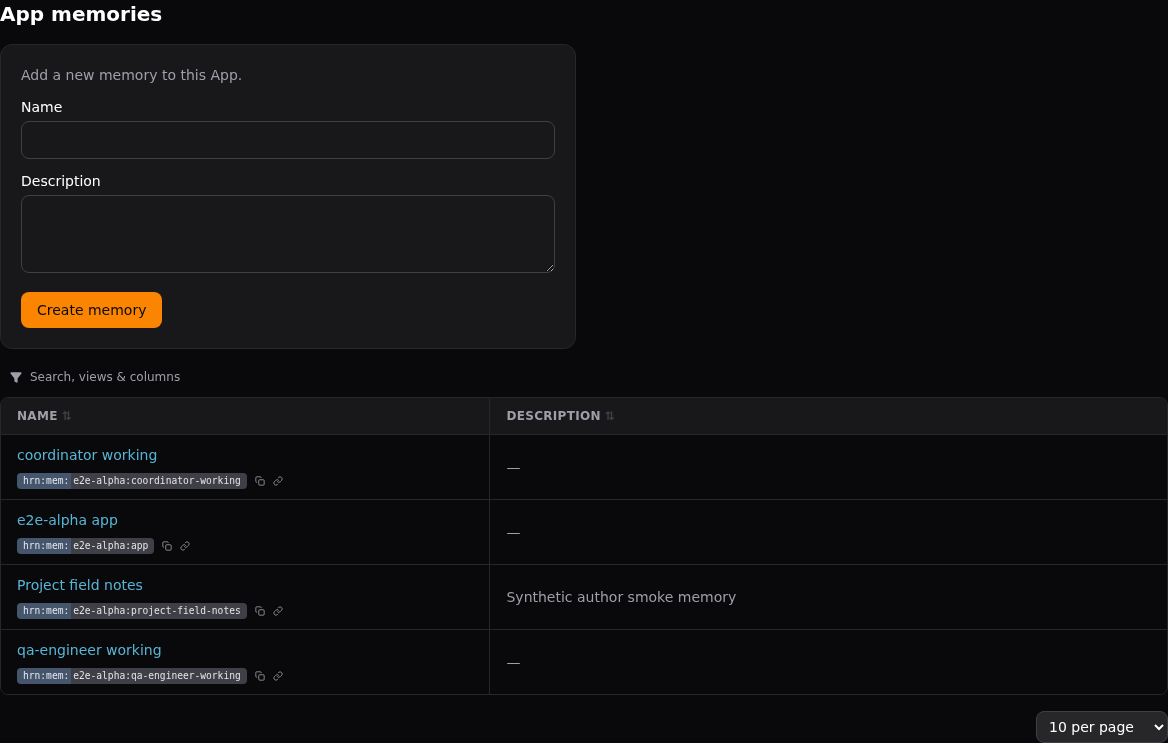
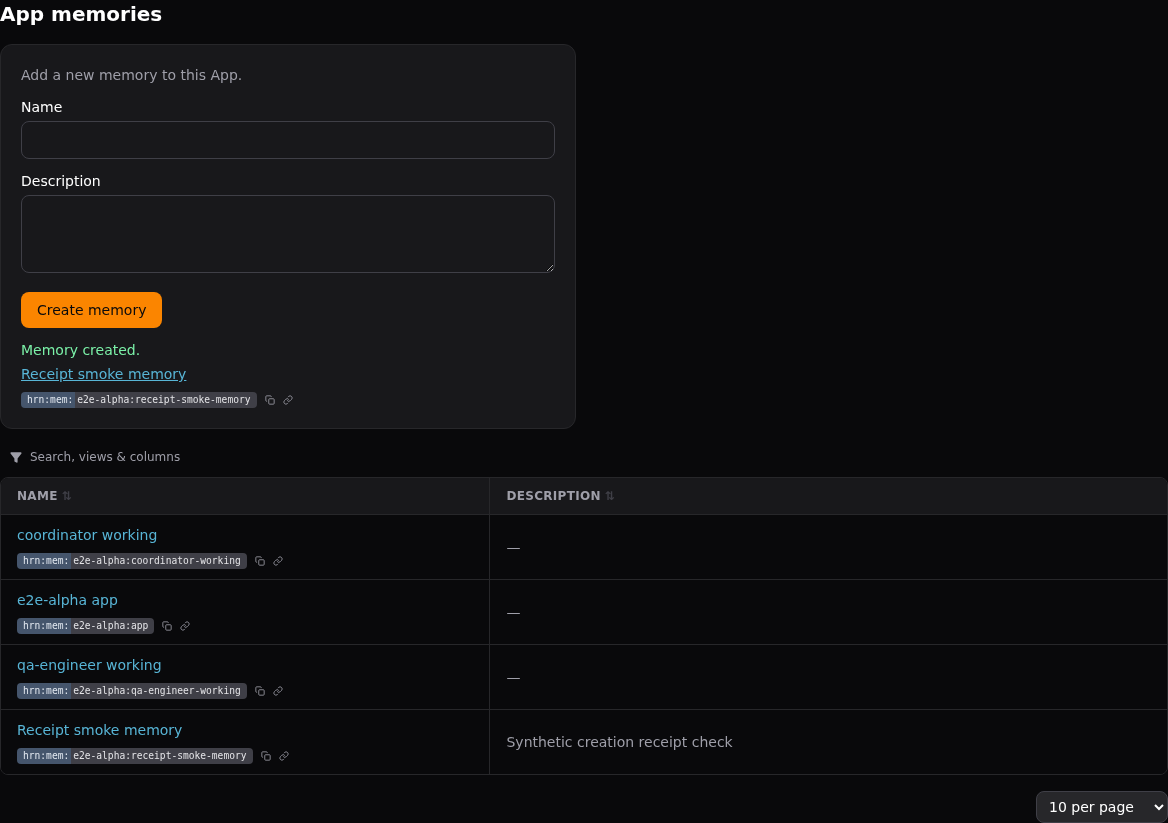
fix: identify the created App memory outside table pagination
UX P2 on #1389: retain the server-returned name, link and copyable URN in the success result so a filtered or later-page row is still reachable. Refs #487.

Worker: Gizelle (portal-engineer) <hrn:worker:hadronmemory.com:hadron-dev-team:gizelle>

diff --git a/src/routes/app/apps/[appId]/AppMemories.svelte b/src/routes/app/apps/[appId]/AppMemories.svelte
@@ -9,14 +9,17 @@
   import type { PortalColumnDef } from '$lib/table/features';
   import { t } from '$lib/i18n/t';
   import { submittedForm, failedSubmission } from '$lib/forms/submitted-form';
-  import type { AppMemoryRow } from './app-memories';
+  import type { AppMemoryMessage, AppMemoryRow } from './app-memories';
   import { createAppMemorySchema } from './schema';
   type Fields = Infer<typeof createAppMemorySchema, 'zod4'>;
   let { memories, canCreate, initial, result }: {
     memories: AppMemoryRow[] | null; canCreate: boolean;
-    initial: SuperValidated<Fields, App.Superforms.Message>; result: unknown;
+    initial: SuperValidated<Fields, AppMemoryMessage>; result: unknown;
   } = $props();
-  const { form, errors, message, submitting, enhance } = superForm(untrack(() => failedSubmission<Fields>(result, 'createAppMemory') ?? { ...initial, message: submittedForm<Fields>(result, 'createAppMemory')?.message }), {
+  const { form, errors, message, submitting, enhance } = superForm(untrack(() => {
+    const submitted = submittedForm<Fields>(result, 'createAppMemory') as SuperValidated<Fields, AppMemoryMessage> | null;
+    return (failedSubmission<Fields>(result, 'createAppMemory') as SuperValidated<Fields, AppMemoryMessage> | null) ?? { ...initial, message: submitted?.message };
+  }), {
     validators: zod4Client(createAppMemorySchema), invalidateAll: 'force', resetForm: true,
   });
   let search = $state('');
@@ -52,7 +55,15 @@
       </div>
       <button type="submit" disabled={$submitting} class="rounded-lg bg-amber-500 px-4 py-2 text-sm font-medium text-zinc-950 hover:bg-amber-600 disabled:opacity-50">{$submitting ? t('app.memory.creating', 'Creating...') : t('app.memory.create', 'Create memory')}</button>
       </fieldset>
-      {#if $message}<p role={$message.type === 'error' ? 'alert' : 'status'} class="text-sm {$message.type === 'error' ? 'text-red-600 dark:text-red-400' : 'text-green-700 dark:text-green-300'}">{$message.text}</p>{/if}
+      {#if $message}
+        <div role={$message.type === 'error' ? 'alert' : 'status'} class="text-sm {$message.type === 'error' ? 'text-red-600 dark:text-red-400' : 'text-green-700 dark:text-green-300'}">
+          <p>{$message.text}</p>
+          {#if $message.type === 'success' && $message.created}
+            <a href="/app/memories/{encodeURIComponent($message.created.id)}" class="mt-1 inline-block font-medium text-indigo-600 hover:underline dark:text-indigo-300">{$message.created.name}</a>
+            <div class="mt-1"><Urn value={$message.created.urn} type="memory" size={10} /></div>
+          {/if}
+        </div>
+      {/if}
     </form>
   {/if}
   {#if memories === null}

diff --git a/src/routes/app/apps/[appId]/app-memories.ts b/src/routes/app/apps/[appId]/app-memories.ts
@@ -1,3 +1,4 @@
+import type { Infer } from 'sveltekit-superforms';
 import { fail } from '@sveltejs/kit';
 import { message, superValidate } from 'sveltekit-superforms/server';
 import { zod4 } from 'sveltekit-superforms/adapters';
@@ -7,6 +8,9 @@ import { OPTIONAL_LIST_TIMEOUT_MS, withTimeout } from '$lib/server/with-timeout'
 import { fetchAllItems } from '$lib/server/paginate';
 import { t } from '$lib/i18n/t';
 import { createAppMemorySchema } from './schema';
+
+export interface CreatedAppMemory { id: string; urn: string; name: string }
+export type AppMemoryMessage = App.Superforms.Message & { created?: CreatedAppMemory };
 
 export interface AppMemoryRow { id: string; urn: string; name: string; description: string | null; appId: string | null }
 export const CREATE_APP_MEMORY_MUTATION = /* GraphQL */ `
@@ -38,11 +42,11 @@ export function canCreateAppMemory(org: { members?: { role: string; user: { id: 
 }
 
 export async function createMemory({ request, params, locals }: { request: Request; params: { appId: string }; locals: { token?: string | null } }) {
-  const form = await superValidate(await request.formData(), zod4(createAppMemorySchema), { id: `createAppMemory:${params.appId}` });
+  const form = await superValidate<Infer<typeof createAppMemorySchema, 'zod4'>, AppMemoryMessage>(await request.formData(), zod4(createAppMemorySchema), { id: `createAppMemory:${params.appId}` });
   if (!form.valid) return fail(400, { form });
   try {
-    await gqlClient(locals.token).request(CREATE_APP_MEMORY_MUTATION, { appRef: params.appId, name: form.data.name, description: form.data.description });
-    return message(form, { type: 'success', text: t('app.memory.created', 'Memory created.') });
+    const { createAppMemory: created } = await gqlClient(locals.token).request<{ createAppMemory: CreatedAppMemory }>(CREATE_APP_MEMORY_MUTATION, { appRef: params.appId, name: form.data.name, description: form.data.description });
+    return message(form, { type: 'success', text: t('app.memory.created', 'Memory created.'), created });
   } catch (e: unknown) {
     // Only known codes select fixed copy; no raw GraphQL or transport text.
     const code = extractGqlErrorCode(e);
